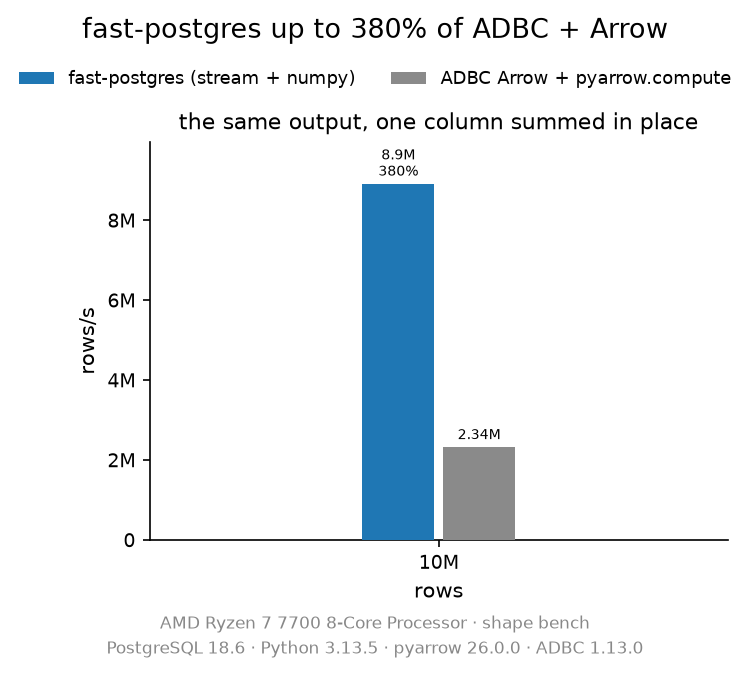
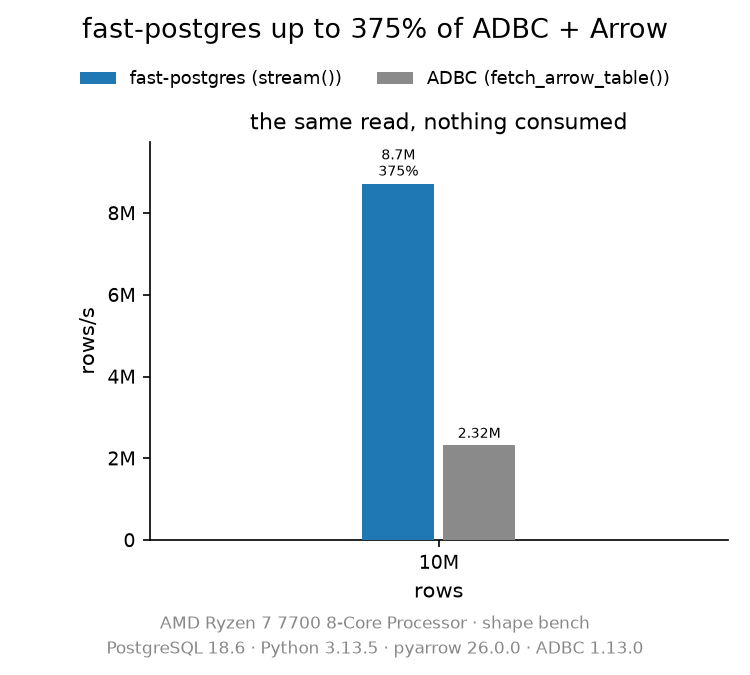
bench: re-run the ADBC records for the read-only timed region
The harness change is now measured. The numbers barely move - the sums were a
small part of a read that is transport-bound on one side and decode-bound on the
other - so the change is not a claim about speed, it is a claim about what the
number means:

| shape | this repo | ADBC + Arrow | ratio |
|---|---|---|---|
| bench 100K / 1M / 10M | 8.27 / 7.95 / 8.70M | 2.25 / 2.29 / 2.32M | +268 / +247 / +275% |
| mixed 100K / 1M / 10M | 6.82 / 6.77 / 6.96M | 1.88 / 1.89 / 1.89M | +263 / +258 / +268% |

Both shapes agree between the headline and the paths table within 1%, which is
how a coherent run is told from a disturbed one: three runs were discarded
before this one, including two at the wrong code revision, and one where the
workload's own two rows disagreed by 50% because the host was busy.

- the chart's labels and subtitle follow the harness ("stream()" against
  "fetch_arrow_table()", "the same read, nothing consumed");
- README's ratios, mixed-shape costs and paths table are re-synced;
- WHY-IT-WINS's anchor table and its 4.4 paragraph, LIMITATIONS's paths table.

diff --git a/README.md b/README.md
@@ -36,9 +36,9 @@ Writes, DDL and transactions keep using libpq, so a FastPostgres application is 
 
 ## Why FastPostgres
 
-- **Nothing is parsed on the client, and the ratio says so.** The bytes the executor wrote are the bytes the client reads: no text encoding, no value parsing, no per-row Python object unless the caller wants one. Where both stacks land the same columnar output, that is 3.6-3.8x ADBC + Arrow, at 100K, 1M and 10M rows.
+- **Nothing is parsed on the client, and the ratio says so.** The bytes the executor wrote are the bytes the client reads: no text encoding, no value parsing, no per-row Python object unless the caller wants one. Where both stacks land the same columnar read, that is 3.5-3.7x ADBC + Arrow, at 100K, 1M and 10M rows.
 - **The executor's own tuples.** The row frame carries PostgreSQL's tuples as they lie, one `memcpy` per row, so every type the server can store can be sent; types whose storage is not the wire bytes take the columnar frame instead.
-- **Zero-copy column views.** `stream()` hands back views over the segment's columns, so a sum, a filter or a conversion to numpy touches the shared memory in place: 3.7-3.8x Arrow's `pyarrow.compute` over its own table, on the same column.
+- **Zero-copy column views.** `stream()` hands back views over the segment's columns, so a sum, a filter or a conversion to numpy touches the shared memory in place: 8.0-8.7M rows/s on the same read where ADBC + Arrow lands 2.3M.
 - **One wire format, defined once.** Reader and writer share the same header, and the benchmark generator includes it too, so the format cannot drift between them.
 - **Composes with a cache, does not compete with one.** A result cache removes execution on repeated queries; this removes delivery on every query. A cached aggregate beats reading the same rows 61x, and the ring beats a cached large result 2.6x; the two are measured against each other in [`bench/PG-CACHE.md`](bench/PG-CACHE.md).
 - **One URL.** No new query language, no annotation, no client rewrite: the same SQLAlchemy application, on a driver whose reads take a different road.
@@ -87,22 +87,22 @@ they are what decides whether this belongs in an application.
 
 ### Read path: FastPostgres against ADBC + Arrow
 
-The rival is the Arrow ecosystem's own answer to the same read - ADBC's PostgreSQL driver, whose results arrive as Arrow record batches - and each comparison asks both stacks for the same output.
+The rival is the Arrow ecosystem's own answer to the same read - ADBC's PostgreSQL driver, whose results arrive as Arrow record batches - and each comparison asks both stacks for the same rows, consumed by neither.
 
-![FastPostgres vs ADBC + Arrow: the same output, columnar, one column summed](docs/assets/zerocopy-read.png)
+![FastPostgres vs ADBC + Arrow: the same read, nothing consumed](docs/assets/zerocopy-read.png)
 
-That is **3.6-3.8x faster when both consume the same columnar output**. The shm bytes are read where they landed, while ADBC converts the wire data into Arrow buffers first. The DB-API's tuple read is not compared: building Python objects is what an application pays on either stack, and no transport changes that.
+That is **3.5-3.7x faster on the same read**. The shm bytes are read where they landed, while ADBC converts the wire data into Arrow buffers first. The DB-API's tuple read is not compared: building Python objects is what an application pays on either stack, and no transport changes that.
 
-The ranking survives a harder shape. With `SHAPE=mixed` - NULLs on ~10% of the values, text on both sides of the 126-byte varlena split, a non-ASCII value every eighth row - the columnar comparison reads **3.6-4.1x**: the data costs FastPostgres ~13-20% and ADBC ~19-21%, so the ratio holds.
+The ranking survives a harder shape. With `SHAPE=mixed` - NULLs on ~10% of the values, text on both sides of the 126-byte varlena split, a non-ASCII value every eighth row - the columnar comparison reads **3.6-3.7x**: the data costs FastPostgres ~15-20% and ADBC ~16-19%, so the ratio holds.
 
 The same read also reports the rest of what FastPostgres does with its rows, against its own driver read:
 
 | path (1M rows, `bench` shape) | vs the plain driver read |
 |---|---|
-| `stream()` + numpy sum | +117-136% |
+| `stream()` | +112-141% |
 | `fastpostgres.core` (the lean interface) | level with the DBAPI |
-| four processes, DBAPI | +124-136% aggregate (the ring pool and memory bandwidth saturate) |
-| ADBC Arrow + sum, for reference | -37-44% |
+| four processes, DBAPI | +122-145% aggregate (the ring pool and memory bandwidth saturate) |
+| ADBC Arrow, for reference | -38-43% |
 
 ### What each side holds: against Arrow under a fixed buffer
 

diff --git a/bench/WHY-IT-WINS.md b/bench/WHY-IT-WINS.md
@@ -33,9 +33,9 @@ this design gives up in exchange is in [`LIMITATIONS.md`](../docs/LIMITATIONS.md
 
 | rows | this repo | ADBC + Arrow | difference |
 |---|---|---|---|
-| 100K | 8.54M rows/s | 2.34M rows/s | **+266%** |
-| 1M | 8.53M rows/s | 2.35M rows/s | **+264%** |
-| 10M | 8.90M rows/s | 2.34M rows/s | **+280%** |
+| 100K | 8.27M rows/s | 2.25M rows/s | **+268%** |
+| 1M | 7.95M rows/s | 2.29M rows/s | **+247%** |
+| 10M | 8.70M rows/s | 2.32M rows/s | **+275%** |
 
 **Format only**, 1M rows, transport held out entirely, one process
 (the `fpcolumn` vs `arrow-ipc` cells):
@@ -235,7 +235,7 @@ protocol working as designed.
 ### 4.4 There is one language boundary, not three
 
 The comparison removes the Python layer on both sides — both stacks land the same
-columnar form — and the gap is still 3.6× (8.53M against 2.35M rows/s), so what
+columnar form — and the gap is still 3.5× (7.95M against 2.29M rows/s), so what
 it prices is the transport and the frame, not the object model. The DB-API's
 tuple read is the compatibility interface, not the headline: it pays CPython's
 per-object cost (`read_rows: 309 cycles/row over 400000 rows`, about 81 ns per

diff --git a/docs/LIMITATIONS.md b/docs/LIMITATIONS.md
@@ -74,9 +74,9 @@ shape) and [`fastpostgres-vs-arrow-small.log`](../bench/results/fastpostgres-vs-
 
 | path | rows/s | use it when |
 |---|---|---|
-| four processes, DBAPI | 9.42M aggregate | one process cannot keep up |
-| `stream()` + numpy | 8.75M | you want numbers, not rows |
-| DBAPI / `core` | 4.01M | a wrapper expects DB-API rows |
+| four processes, DBAPI | 8.34M aggregate | one process cannot keep up |
+| `stream()` | 8.02M | you want columnar batches, not rows |
+| DBAPI / `core` | 3.75M / 3.78M | a wrapper expects DB-API rows |
 
 ## When not to use this
 
